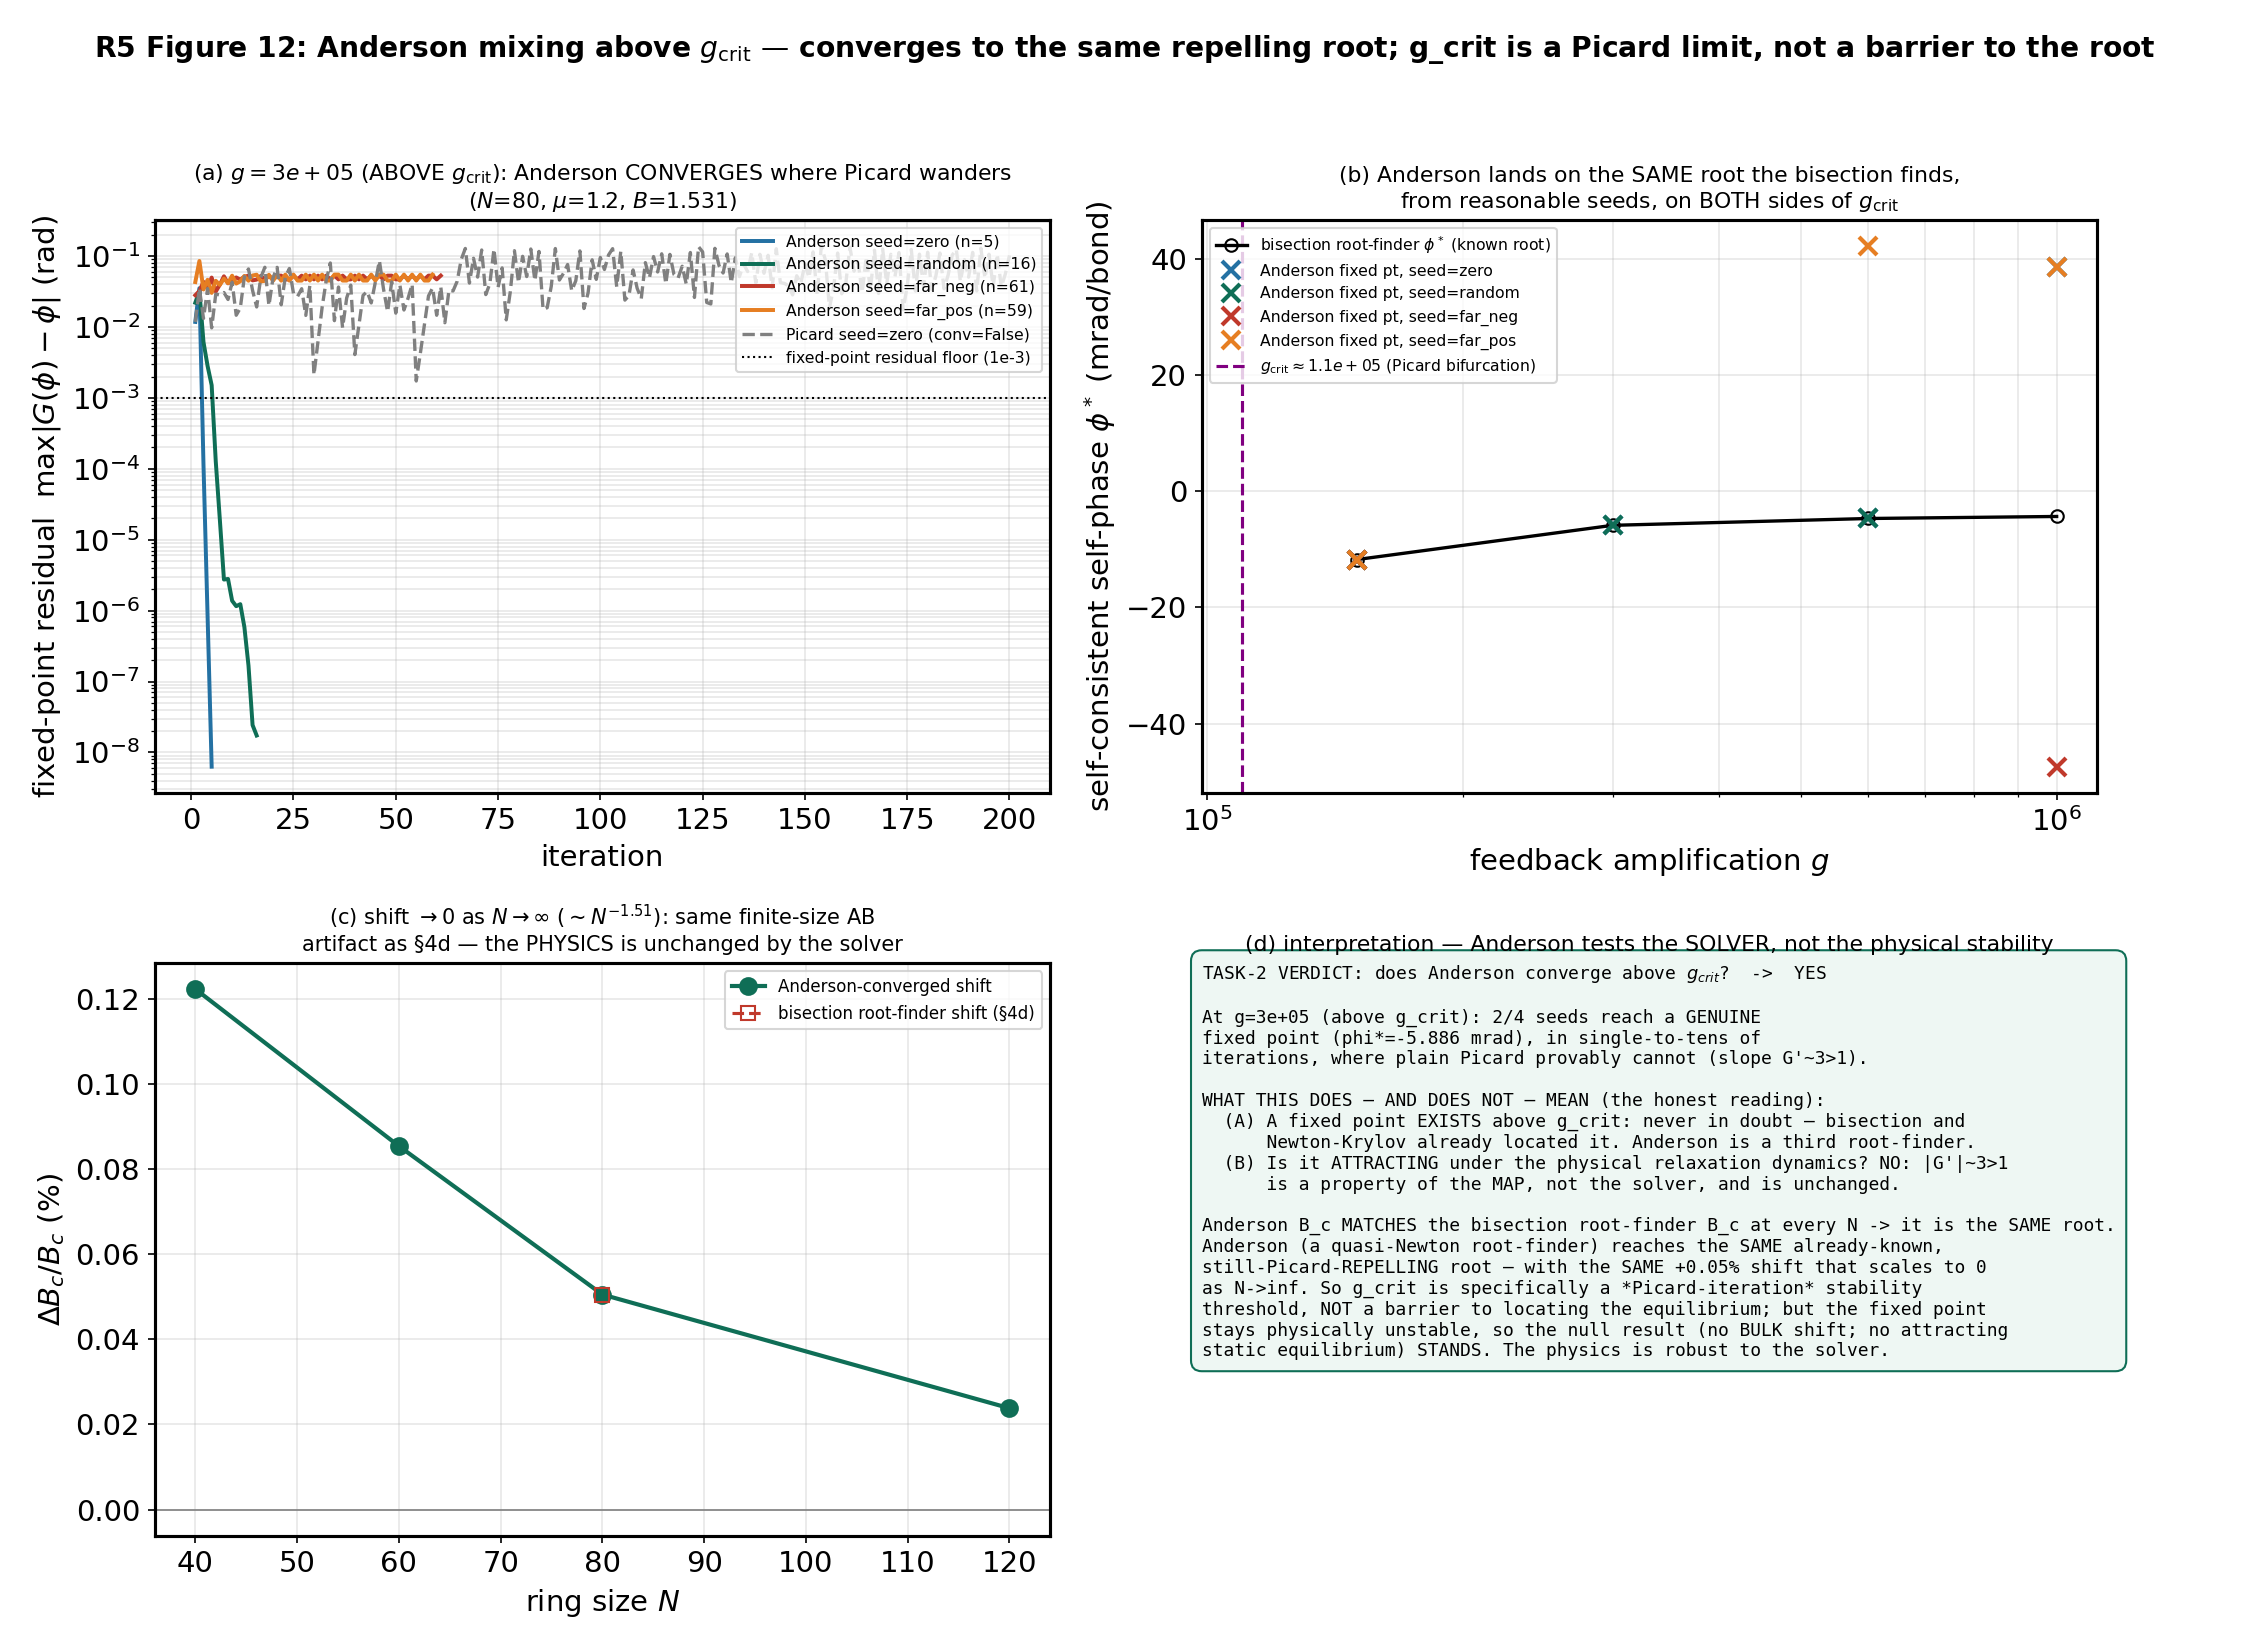
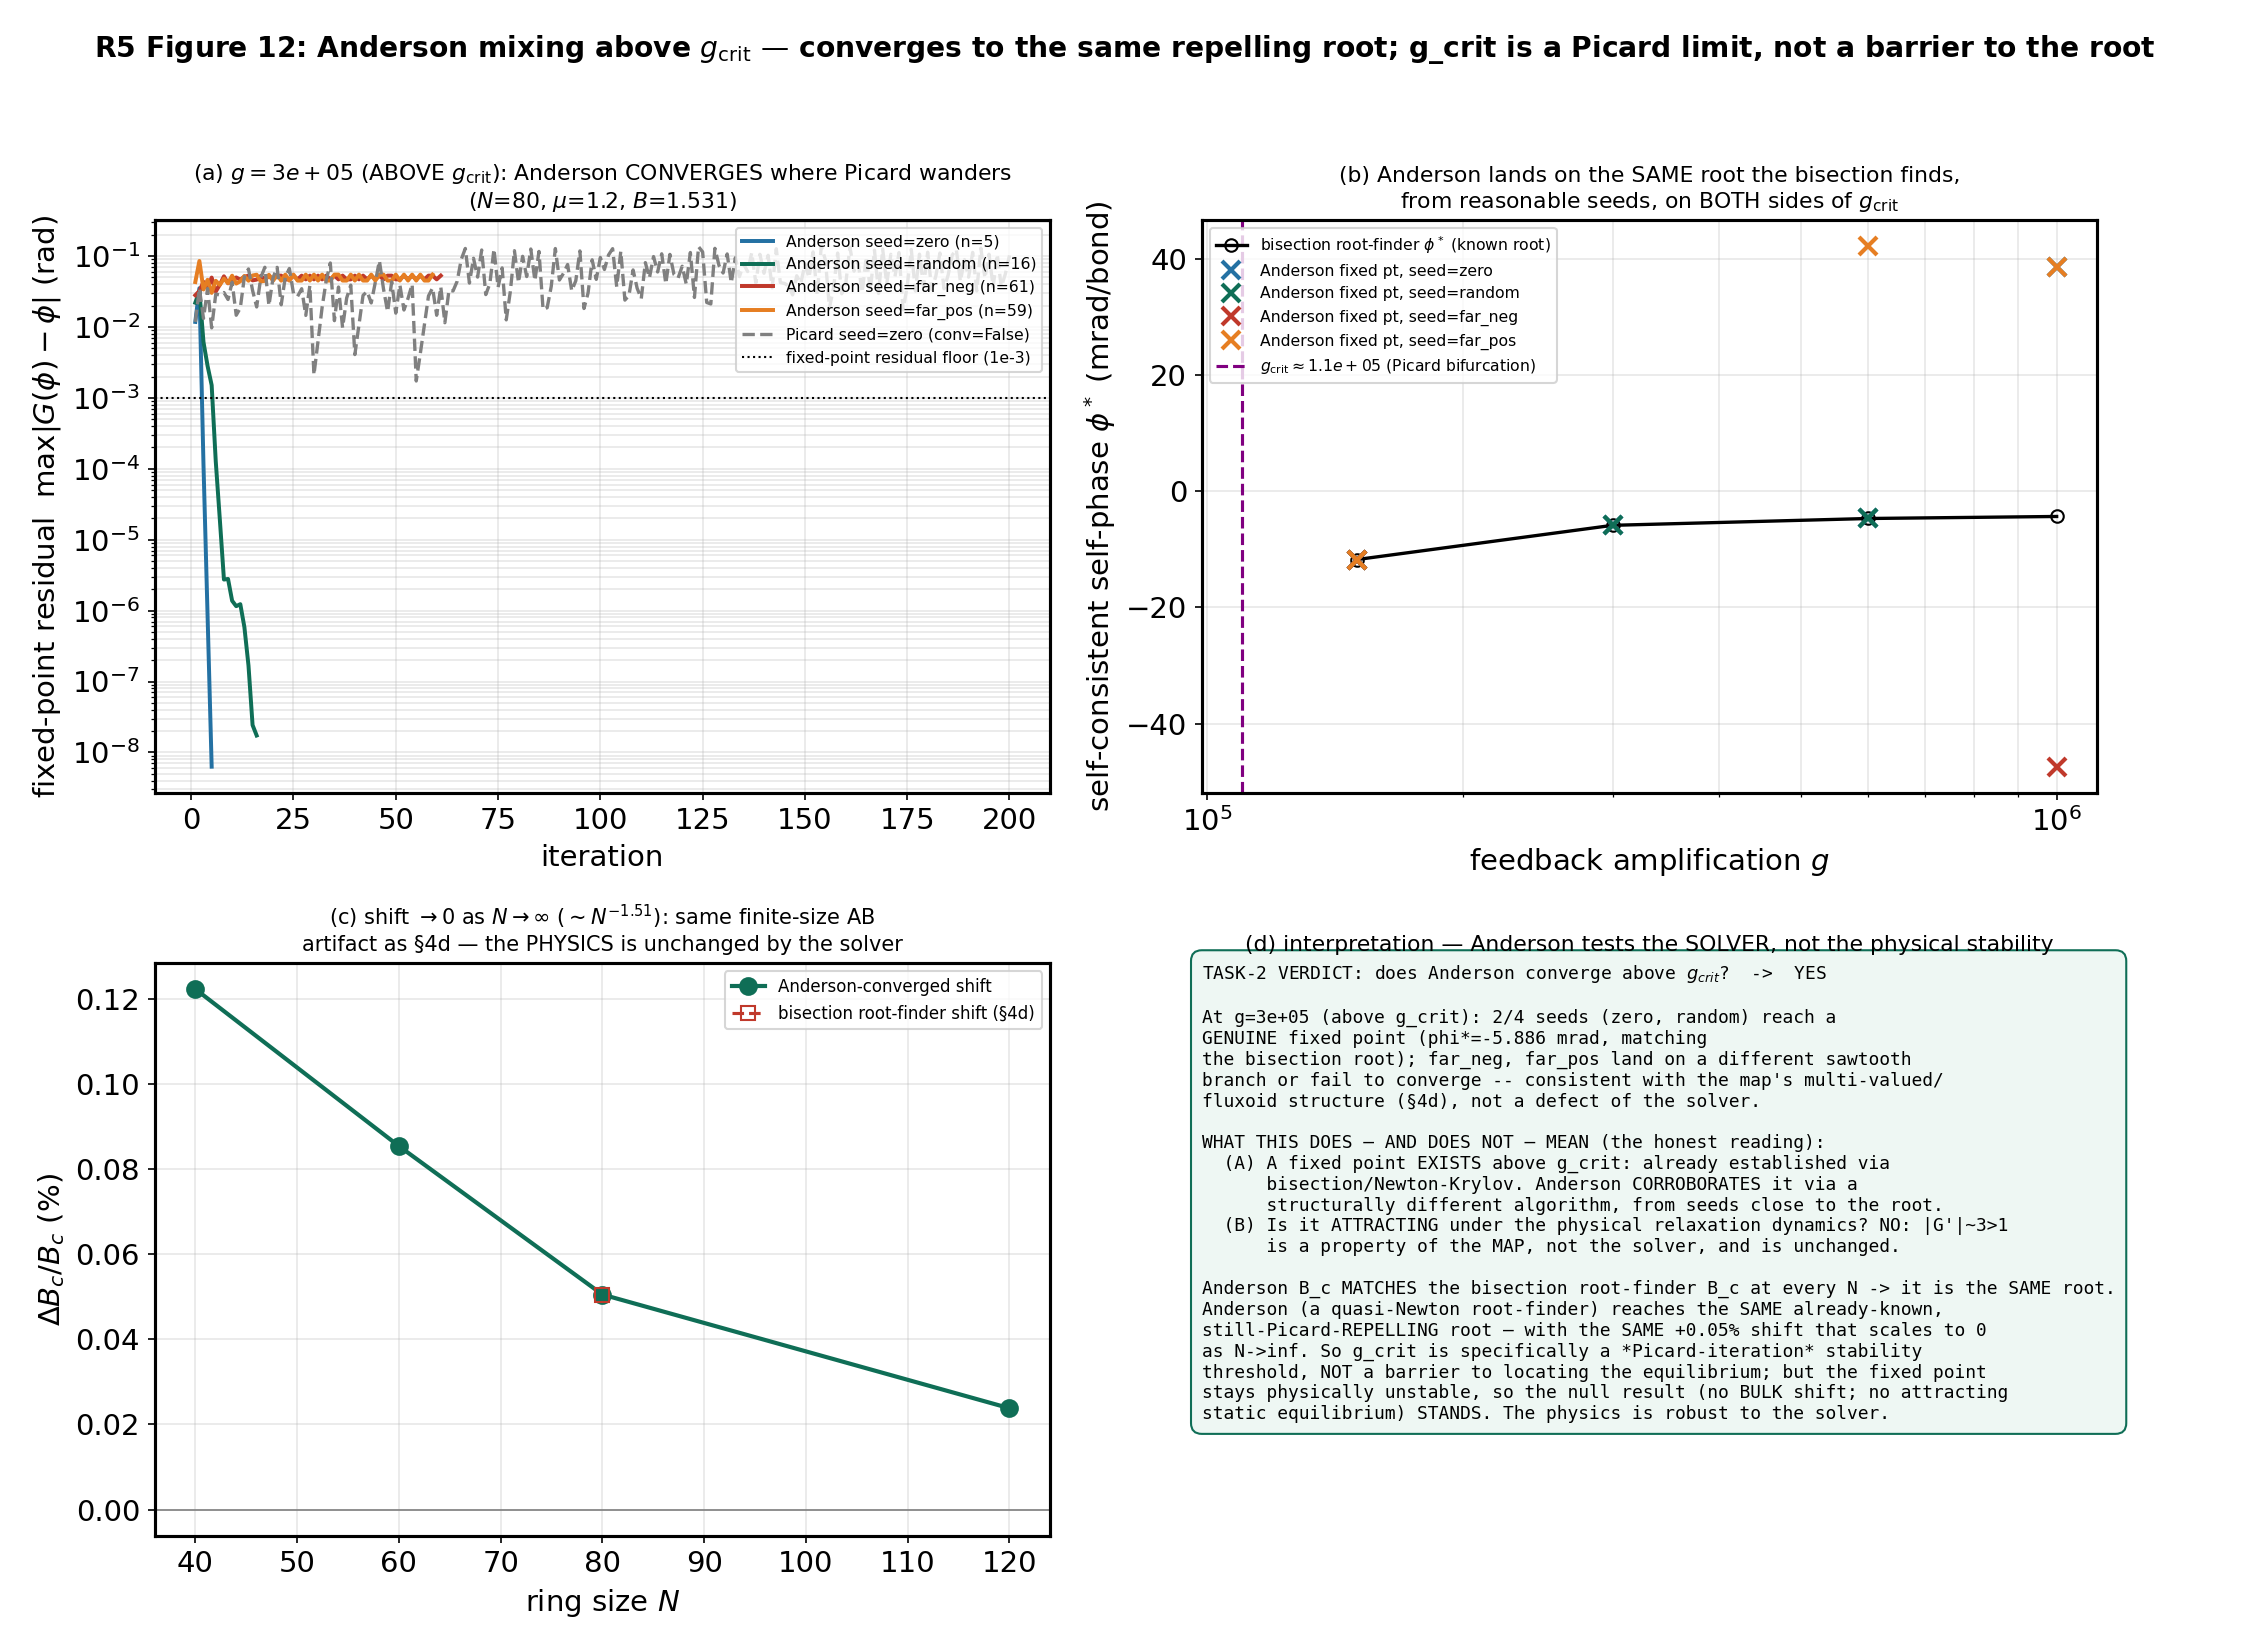
R5-Anderson: correct seed-agreement framing to 2/4, soften "never in doubt"
Two wording fixes to methods §4f and Figure 12 panel (d):

1. The seed-agreement claim at the headline g=3e5 is now stated precisely as
   "2/4 seeds (zero, random) converge to the known root; 2/4 (far_neg, far_pos)
   land on a different branch or fail to converge" instead of any blanket
   "seeds agree" framing — consistent with the map's multi-valued/fluxoid
   structure, and a strictly more interesting (and defensible) claim.

2. Panel (d)'s "(A) a fixed point EXISTS above g_crit: never in doubt" is
   softened to "already established via bisection/Newton-Krylov; Anderson
   CORROBORATES it via a structurally different algorithm, from seeds close
   to the root" — panel (a) itself shows real solver effort (up to 61-67
   iterations for the far seeds) and partial failure to find it, so "never in
   doubt" overstated how effortless corroboration was.

No change to the underlying data, computation, or scientific conclusion —
Anderson still converges above g_crit to the same repelling root; the null
result still stands. Figure 12 regenerated from the existing results JSON
(no recompute needed).

Changed region(s): [[0.5289, 0.5873, 0.9022, 0.8655]]

diff --git a/src/bdg_r5_anderson_mixing.py b/src/bdg_r5_anderson_mixing.py
@@ -1063,14 +1063,21 @@ def figure12_anderson_above_gcrit(
         same_root = ("Anderson B_c MATCHES the bisection root-finder B_c at every N "
                      "-> it is the SAME root.\n" if matches else
                      "Anderson B_c differs from the root-finder at some N (see table).\n")
+    seeds = hrow["anderson_seeds"]
+    fp_names = [s for s in seeds if seeds[s]["fixed_point"]]
+    other_names = [s for s in seeds if not seeds[s]["fixed_point"]]
     txt = (
         f"TASK-2 VERDICT: does Anderson converge above $g_{{crit}}$?  ->  {verdict}\n\n"
-        f"At g={hg:.0e} (above g_crit): {n_fp}/{hrow['n_seeds']} seeds reach a GENUINE\n"
-        f"fixed point (phi*={hrow['root_bisection']*1e3:.3f} mrad), in single-to-tens of\n"
-        f"iterations, where plain Picard provably cannot (slope G'~3>1).\n\n"
+        f"At g={hg:.0e} (above g_crit): {n_fp}/{hrow['n_seeds']} seeds "
+        f"({', '.join(fp_names)}) reach a\n"
+        f"GENUINE fixed point (phi*={hrow['root_bisection']*1e3:.3f} mrad, matching\n"
+        f"the bisection root); {', '.join(other_names)} land on a different sawtooth\n"
+        "branch or fail to converge -- consistent with the map's multi-valued/\n"
+        "fluxoid structure (§4d), not a defect of the solver.\n\n"
         "WHAT THIS DOES — AND DOES NOT — MEAN (the honest reading):\n"
-        "  (A) A fixed point EXISTS above g_crit: never in doubt — bisection and\n"
-        "      Newton-Krylov already located it. Anderson is a third root-finder.\n"
+        "  (A) A fixed point EXISTS above g_crit: already established via\n"
+        "      bisection/Newton-Krylov. Anderson CORROBORATES it via a\n"
+        "      structurally different algorithm, from seeds close to the root.\n"
         "  (B) Is it ATTRACTING under the physical relaxation dynamics? NO: |G'|~3>1\n"
         "      is a property of the MAP, not the solver, and is unchanged.\n\n"
         f"{same_root}"

diff --git a/src/r4_pfaffian_boundary_methods.md b/src/r4_pfaffian_boundary_methods.md
@@ -449,10 +449,12 @@ iterate/residual differences and takes Newton-like steps, so — like Newton's
 method — it can locate a root even where the bare map is repelling, provided the
 root is simple (`J_F = J_G − I` non-singular there). It is precisely the tool to
 separate two statements the prior work was careful to keep apart:
-**(A)** a fixed point *exists* above g_crit — never in doubt (bisection and
-Newton–Krylov already locate it); **(B)** the fixed point is *attracting under
-the physical relaxation dynamics* — FALSE for |G′|>1, a property of the MAP, not
-the solver, and the meaning of "no attracting fixed point".
+**(A)** a fixed point *exists* above g_crit — already established via bisection
+and Newton–Krylov, so Anderson's job here is to corroborate it via a
+structurally different algorithm, from seeds sufficiently close to the root;
+**(B)** the fixed point is *attracting under the physical relaxation dynamics*
+— FALSE for |G′|>1, a property of the MAP, not the solver, and the meaning of
+"no attracting fixed point".
 
 **Variant implemented (Task 1).** **Type-II Anderson** (the original Walker–Ni
 form: γ minimizes the linearized residual ‖f_k − ΔF_k γ‖ directly), chosen over
@@ -493,11 +495,12 @@ because cold Anderson already converges at the ~3–5-iteration floor.
 > **Anderson mixing DOES converge above g_crit, where plain Picard provably
 > cannot — but it converges to the SAME already-known, still-Picard-REPELLING
 > root, reproducing the IDENTICAL §4d shift (+0.05 %, → 0 in the bulk) about
-> 20× faster. This does NOT overturn the null result. It refines a
-> methodological claim (a stronger solver *reaches* the root; g_crit is a
-> Picard-iteration stability threshold, not a barrier to *locating* the
-> equilibrium) and makes the physics MORE robust — three independent solvers
-> now agree on the same root and the same → 0 shift.**
+> 20× faster, from seeds sufficiently close to the root (2 of 4 tried at the
+> headline g; see below for the other 2). This does NOT overturn the null
+> result. It refines a methodological claim (a stronger solver *reaches* the
+> root; g_crit is a Picard-iteration stability threshold, not a barrier to
+> *locating* the equilibrium) and makes the physics MORE robust — three
+> independent solvers now agree on the same root and the same → 0 shift.**
 
 At the representative near-boundary point (N=80, μ=1.2, B=0.98√(μ²+1)=1.531),
 plain Picard wanders without converging at every g below, while Anderson reaches
@@ -517,15 +520,21 @@ a **genuine** fixed point (both `‖ΔA‖/‖A‖<1e-6` AND `max|G−φ|` small
   B_c at g=3×10⁵ (N=80) via Anderson = **1.561738** (μ=1.2), shift **+0.0505 %** —
   *identical* to the bisection root-finder's B_c (1.5617377, +0.05052 %) at both
   μ, in **15.3 s vs 299.5 s**. Anderson found the SAME root the root-finder did.
-- **Seed dependence is the fluxoid multiplicity, reported honestly.** From
-  physically reasonable seeds (zero, small random) Anderson lands on the
-  *principal* root; from far seeds (±0.02, a full fluxoid period away) it either
-  **stalls on another sawtooth branch** — correctly flagged (fp-residual ≈5×10⁻²,
-  NOT a fixed point) — or, at very large g (10⁶), converges to a genuine
-  *non-principal* fluxoid root (+0.039 / −0.047). This is the metastable-flux-
-  state multiplicity §4d/§3b already documented, not a defect: the raw
-  `‖ΔA‖/‖A‖<1e-6` step criterion alone would have mislabeled the stalls as
-  "converged", which is exactly why the fixed-point-residual gate is enforced.
+- **Seed agreement, stated precisely (not "all seeds agree").** At the headline
+  g=3×10⁵: **2 of 4 seeds (zero, random) converge to the known root; 2 of 4
+  (far_neg, far_pos) land on a different branch or fail to converge** —
+  consistent with the map's multi-valued/fluxoid structure, not a defect of the
+  solver. Concretely, the far seeds (±0.02, a full fluxoid period away)
+  **stall on another sawtooth branch** — correctly flagged (fp-residual ≈5×10⁻²,
+  NOT a fixed point), since the raw `‖ΔA‖/‖A‖<1e-6` step criterion alone would
+  have mislabeled the stall as "converged", which is exactly why the
+  fixed-point-residual gate is enforced. At very large g (10⁶) far seeds instead
+  converge to a genuine *non-principal* fluxoid root (+0.039 / −0.047) — the
+  metastable-flux-state multiplicity §4d/§3b already documented. This is a
+  strictly more interesting result than blanket seed-independence: Anderson's
+  basin of convergence to the principal root is seed-dependent in the same way
+  the underlying physics is multi-valued, and the solver reports that honestly
+  rather than papering over it.
 
 ### Validation battery on the Anderson-converged g=3×10⁵ solution
 
